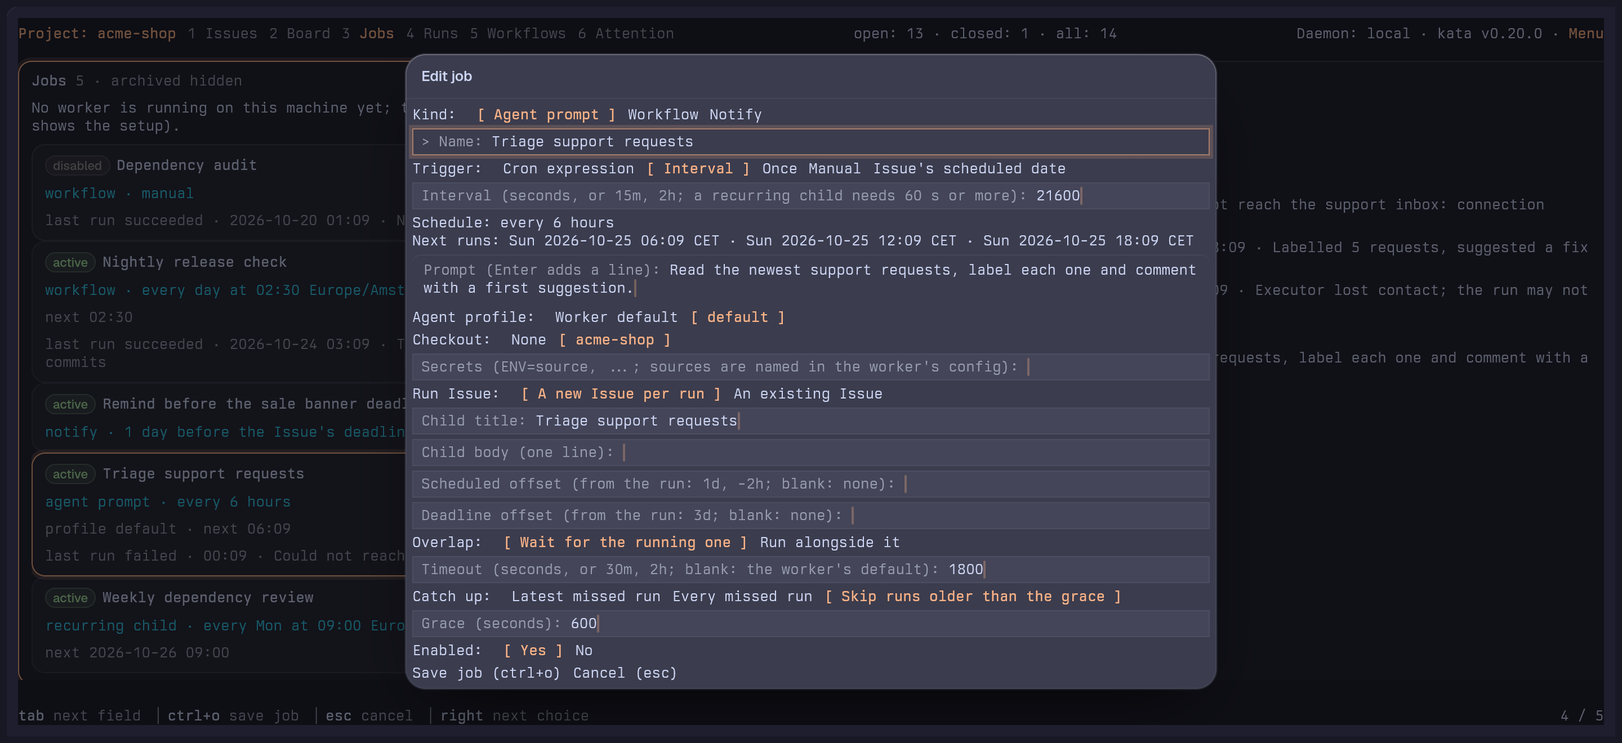
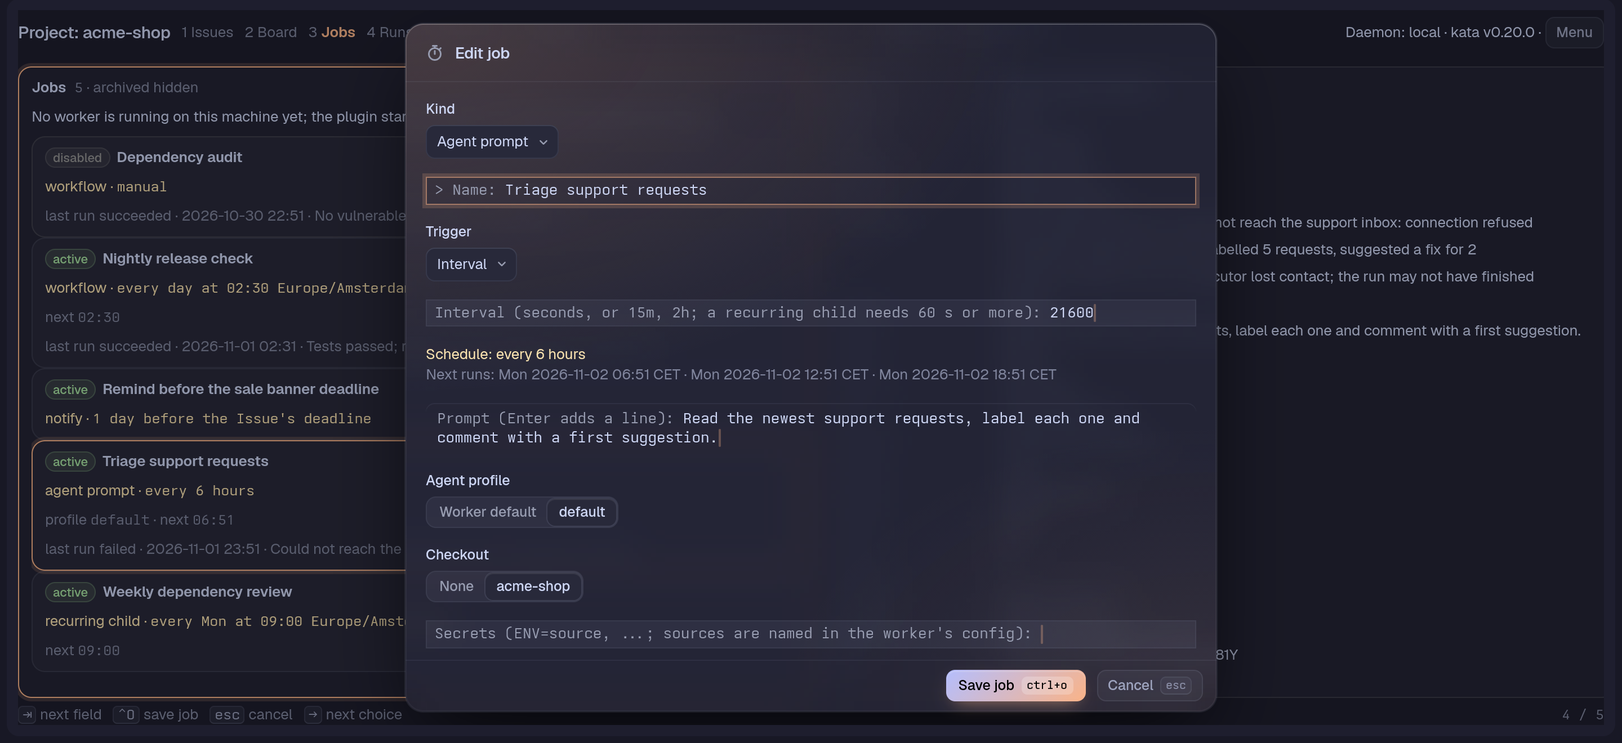
Docs for 0.7.0: screenshots in the new look, agents guide, changelog tidy
Re-capture every docs/images screenshot in dark-catppuccin against Tern 0.9.9 and
tern-sdk v0.2.0 (sans face, keycap buttons, chips), Pane-only framing, and add
agent-card.png, saved-views.png and saved-view-open.png to the agents and saved
views guides. Move the agents-on-Issue detail from README into docs/guide/agents.md,
document -NoProfile for Windows kata Panes, and merge the superseded Agent card,
help sheet and Tern 0.9.7 changelog entries.

Gates: the background agent smoke step expects --home now that a Pane with
KATA_HOME routes its agents to its daemon, and TestAgentHelper uses t.Setenv.

diff --git a/cmd/tern-kata/agent_test.go b/cmd/tern-kata/agent_test.go
@@ -23,7 +23,7 @@ func TestAgentHelper(t *testing.T) {
 	// The test binary's init resets some kata variables, so the block's own environment is applied here, last.
 	for _, kv := range strings.Split(os.Getenv(agentBlockEnv), "\n") {
 		if name, value, ok := strings.Cut(kv, "="); ok {
-			os.Setenv(name, value)
+			t.Setenv(name, value)
 		}
 	}
 	os.Args = append([]string{"tern-kata"}, os.Args[slices.Index(os.Args, "--")+1:]...)

diff --git a/CHANGELOG.md b/CHANGELOG.md
@@ -14,9 +14,8 @@ All notable changes to tern-kata are listed here. The format follows [Keep a Cha
 - The window plugin is installed from the release, next to the binary, not from the `main` branch on GitHub, and window machines get a plugin-only one-liner: `TERN_KATA_PLUGIN_ONLY=1` makes `install.sh` and `install.ps1` install just the plugin (no binary, `PATH` or skills step), fail when `tern` is not on `PATH`, and leave a linked copy as it is.
 - The worker reference explains how to back up and restore the worker's local state: what to copy, what to leave out, and what a restore on another machine means.
 - Saved views: a name for a base fixed Collection or Project with the Filter card's fields and a search text, kept in `views.toml` beside `filters.toml`. The Menu's Views level lists them by name after the fixed Collections and ends with **New view**, which opens the View card; opening one makes its base current with its filters applied (`@me` is the Pane's actor) and the filter line ends with "view <name>" while the Collection and filters are still the view's. `f2` edits the view under the cursor, `ctrl+d` deletes it after "Delete view <name>? y/n", and a view whose Project is gone or archived says so. `tern-kata views` lists the fixed Collections and saved views, `views show <name>` prints the Issues as the Pane groups them (`--json` for one object per group, `@me` from `--as`), and `views add <name>` and `views rm <name>` save and delete a view, all without Tern and with the View card's checks and messages. See [Pages and the Board](docs/guide/pages-and-board.md#saved-views) and [Views from a shell](docs/guide/views.md).
-- `w` on an Issue opens the Agent card, whose `s`, `t` and `g` start an interactive omp agent in a split right of the kata Pane, a new tab or the background, in the Issue's checkout; `agent.toml` sets the actor, command and agent name for every Project or one, and a closed Issue refuses `w` with a Notice. The agent runs through `tern-kata agent` (the `tern-kata` on the PATH of Tern's shell, so it must be this version) with its Issue as `KATA_REF`, so kata-plugin's todo plan hangs under that Issue, and without your `KATA_INBOX_USER`; it renews its claim when it already owns the Issue, finishes or drops its todo children before closing, and when it stops without closing it comments why, sets the Issue's **Work attention** to `needs-human` with its reason and labels it ready-for-human.
+- `w` on an Issue opens the **Agent card**, with or without agents: it lists them with state, start time and where each is, `enter` goes to one, `b` sends one to the background, and `s`, `t` and `g` start a new interactive omp agent in the Issue's checkout, in a split right of the kata Pane, a tab (right of the kata Pane's tab, in that Pane's Tern session, with the plugin's window half) or the background. `agent.toml` sets the actor, command and agent name for every Project or one, and a closed Issue refuses `w` with a Notice. The agent runs through `tern-kata agent` (the `tern-kata` on the PATH of Tern's shell, so it must be this version) with its Issue as `KATA_REF`, so kata-plugin's todo plan hangs under that Issue, and without your `KATA_INBOX_USER`; it renews its claim when it already owns the Issue, finishes or drops its todo children before closing, and when it stops without closing it comments why, sets the Issue's **Work attention** to `needs-human` with its reason and labels it ready-for-human.
 - The **Agent badge** on an Issue's list row, Lane row, Board card and detail shows "agent working", "agent waiting for you", "agent idle" or "agent exited", with " · N" when the Issue has several agents; on the Board card and in the detail a click focuses the agent.
-- `w` on an Issue opens the **Agent card**, with or without agents: it lists them with state, start time and where each is, `enter` goes to one, `b` sends one to the background, and `s`, `t` and `g` start a new agent in a split, a tab (right of the kata Pane's tab, in that Pane's Tern session, with the plugin's window half) or the background.
 - A **Background agent** opens beside the Pane when you click its Agent badge in any kata Pane or focus it in the hidden "kata agents" session, as Tern's notification for an agent waiting for you does, and the Pane that started it moves it back into the hidden "kata agents" session when it works again after waiting for you, wherever it was opened.
 - A **Background agent** ends once its Issue is closed and it is idle or has exited: the Pane that started it closes its block with `tern close` and drops its entry and prompt file, unless you have it open in any kata Pane; a close that fails shows Tern's words in a Notice and leaves the entry. An agent in a split or tab is closed this way only once a kata Pane has sent it to the background.
 - While an agent you started waits for you, the Issue holds an **Attention request** for your Inbox address with the agent's last message, also when the Pane finds the agent already waiting; it clears when no agent on the Issue waits and when the Pane quits, and a newer request someone else wrote stays. The request names the agent's `agent.toml` name (by default its program, such as `omp`) as its teammate, so the Attention Page shows `actor/<name>`; an Issue holds one request for you, so the agent that waited last is the one named. An agent that exits while its Issue is still open, also when you quit it with `/exit`, leaves the request "agent exited without closing <ref>" until the Issue closes, another agent on it waits or the Pane quits.
@@ -34,12 +33,11 @@ All notable changes to tern-kata are listed here. The format follows [Keep a Cha
 - A workflow's prompt step no longer inherits kata-plugin's steering variables (`KATA_REF`, `KATA_TEAMMATE`, `KATA_INBOX_USER` and the rest) from the worker's environment: of kata's variables it keeps only those that reach and sign in to the daemon.
 - New kata Panes on Windows no longer wait for the PowerShell profile: the kata Pane, Update tern-kata and Install tern-kata's Windows choice start PowerShell with `-NoProfile`, while your own shells and other Panes still load it.
 - The filter line under the top bar shows each active filter as a chip after a funnel ("status open", "owner me", a Relationship in the Filter card's words such as "relationship has parent"), and the muted note "default" or "view <name>" at its end, in place of the plain `status=open (default)` text.
-- The help sheet (`?`) shows each group of keys as a card, set in one to three equal-width columns as the Pane allows and balanced so the columns end close together; the keys are in an accent mono column that lines up down each column, a long action wraps inside its card, and the last line names both keys that close the sheet: "press ? or esc to return".
+- The help sheet (`?`) lists the global keys and the keys of the Page it is opened over, each group of keys as a card, set in one to three equal-width columns as the Pane allows and balanced so the columns end close together; the keys are in an accent mono column that lines up down each column, a long action wraps inside its card, the agent key `w` sits on one short line, and the last line names both keys that close the sheet: "press ? or esc to return".
 - A cron trigger whose expression names a `CRON_TZ=` or `TZ=` zone other than the trigger's `timezone` no longer runs in the expression's zone: the worker sets the job aside with "its cron expression names zone X but the trigger's timezone is Y", shown by `worker status`, `worker doctor` and the Job card.
 - A job can name its adapter in `options.adapter`: the Job card has an **Adapter** field and puts `tern-kata` on new adapter jobs, and the worker neither schedules nor runs a job that names another adapter, listing it in `worker status`, `worker doctor` and the Jobs Page with that reason; `worker upgrade` grants such a job no secrets or command steps. A job without the key runs as before.
-- The help sheet (`?`) lists the global keys and the keys of the Page it is opened over, and shows the agent key `w` on one short line.
 - The Menu's top level is short: the bound Project, **Views**, **Projects**, the Lettered Pages, Restore a deleted Issue and New Project. The fixed Collections (Inbox, Today, Upcoming, Deadlines, All Open, Logbook) moved into a **Views** level, which Back, `esc` or `backspace` leave for the top with the cursor on Views. The Views row names the current fixed Collection or saved view, typing still finds every Collection from the top, and an unbound directory's Menu sidebar shows the Views level.
-- **Open kata**, `F9` and kata links need Tern 0.9.7 or newer, which lets plugins split and find a remote host's Pane; they no longer fall back to a new tab when Tern can't split the focused Pane.
+- **Open kata**, `F9` and kata links no longer fall back to a new tab when Tern can't split the focused Pane: the Tern that tern-kata now needs lets plugins split and find a remote host's Pane.
 - `install.ps1` says that new Tern tabs and Panes see the `PATH` it changed at once; only shells already open and other programs already running need restarting.
 - The Issue detail's creation line no longer says "creation: legacy", which every Issue and comment on a Project without federation carries. A legacy Issue or comment shows "source: <actor> / <teammate>" only when it has a teammate or was created by someone other than its author, and no line otherwise; verified and pending lines are unchanged.
 - The Worker card lists its facts (Project, Checkout, `worker.toml`, Worker, Supervision) as an aligned grid, each value leading with its state in that state's colour, and names the checkouts `worker.toml` maps only when they differ from the Checkout row.

diff --git a/docs/guide/agents.md b/docs/guide/agents.md
@@ -1,6 +1,78 @@
 # Agents
 
-Two things help coding agents work with tern-kata: a rule that makes ticket references clickable, and two agent skills.
+Three things help coding agents work with tern-kata: the Agent card, which starts an agent on an Issue and keeps track of it (with the `agent.toml` that configures it, Background agents and Attention requests), a rule that makes ticket references clickable, and two agent skills.
+
+## Agents on an Issue
+
+### The Agent card and starting agents
+
+`w` on the selected Issue (list, Board, Lane view or Issue detail) opens the Agent card, with or without agents. It lists the Issue's agents with state, start time and where each is (split, tab, background or open). `enter` goes to the selected one, `b` sends it to the background, `esc` cancels.
+
+![The Agent card for "Add Apple Pay to checkout" with no agents yet and its buttons: New in a split (S), New in a tab (T), New in the background (G), plus Go to agent, Send to background and Cancel](../images/agent-card.png)
+
+`s` starts a new interactive `omp` in a split right of the kata Pane, `t` in a new tab right of the kata Pane's tab (in that Pane's Tern session, with the plugin's window half loaded; otherwise the tab opens last), `g` in the background. Each starts in the Issue's checkout: the Binding's workspace, else the Project's `checkout` in `agent.toml`, else the first checkout `worker.toml` lists for it, else a Notice says to add one.
+
+A closed Issue says "This Issue is closed; reopen it first (r)." and opens no card.
+
+The agent is told which Issue to work on and how to leave a record: claim it for 24 hours (renewing the claim when it already owns the Issue), comment what it did and how it checked, finish or drop its todo children before closing, close it with evidence only when done and verified, and ask you when it needs a decision. If it stops without closing, it comments why, sets `work.attention` to `needs-human` with the reason in `work.attention_msg`, and labels the Issue ready-for-human in place of ready-for-agent.
+
+### agent.toml
+
+`agent.toml` sets the actor, command and agent name, for every Project or for one. You write it by hand in tern-kata's config folder beside `lanes.toml`. It is read on every start.
+
+```toml
+actor = "me-agent"        # optional; without one the agent writes to kata as whoever kata resolves in its shell (KATA_AUTHOR as inherited)
+name = "builder"          # optional; the teammate its Attention requests carry, default the command's program name
+command = ["omp"]         # optional argv; the Pane appends @<prompt file>, so it must accept omp's @file message
+[projects.tern-kata]      # optional, by Project name; overrides the values above
+actor = "..."
+name = "..."
+command = ["omp", "--model", "opus"]
+checkout = "/home/me/Code/tern-kata"   # an absolute directory
+```
+
+An unknown key, a relative `checkout` or an empty `command` refuses the start and shows the error. The Pane remembers the agents it started in `agents.json` in its state folder and forgets the ones whose block has closed.
+
+### How the agent runs
+
+The agent always runs through `tern-kata agent [--as <actor>] --ref <qualified ref> --`. The wrapper:
+
+- sets `KATA_REF` to the Issue, so kata-plugin's todo plan hangs under it, and drops an inherited `KATA_REF` and `KATA_INBOX_USER` (your own inbox is not the agent's);
+- sets `KATA_AUTHOR` when there is an `actor`, and otherwise leaves `KATA_AUTHOR` as inherited.
+
+`tern-kata` must be on the `PATH` of Tern's shell on that machine, and must be this version: an older one refuses `--ref` and the agent exits at once.
+
+**The Pane's daemon.** A Pane on the default daemon starts agents as before. When the Pane's daemon is not what Tern's shell would pick (the Pane has `KATA_HOME` or `KATA_SERVER`, or you switched on the Daemons Page), the wrapper first drops the block's own `KATA_SERVER`, `KATA_AUTH_TOKEN`, `KATA_AUTH_TOKEN_FILE`, `KATA_ALLOW_INSECURE`, `KATA_TRUST_PRIVATE_NETWORK`, `KATA_DSN`, `KATA_DB` and `KATA_POSTGRES_SCHEMA`. It then sets `KATA_HOME` (made absolute), `KATA_SERVER`, `KATA_ALLOW_INSECURE`, `KATA_TRUST_PRIVATE_NETWORK`, `KATA_AUTH_TOKEN` and `KATA_AUTH_TOKEN_FILE` as the Pane has them. That is how the agent's `kata` commands reach the daemon `KATA_REF` names: its Issue is claimed, commented on and closed there, and kata-plugin registers nothing on Tern's default daemon.
+
+- The Pane's `KATA_DB`, `KATA_POSTGRES_SCHEMA` and `KATA_DSN` are carried only when the route keeps the Pane's home and is not a `KATA_SERVER` or switched-remote route.
+- The `token_env` values of `config.toml` are carried under their own names, never as one global token: every `[[daemon]]` and `[auth]` one for a home-only or plain local route, only `[auth]`'s for a `KATA_SERVER` route, none for a switched remote entry (it gets its own token) or a profile with its own home. Each reaches only the daemon kata scopes it to.
+- Tokens, a DSN (it may hold a password) and these values travel in private files beside the prompt file, deleted once read, never on the command line.
+- A remote daemon wins over the checkout's `.kata.local.toml` pin.
+- A switch to a local daemon that the checkout's pin or `active_daemon` would override, or to a remote entry without a token while `[auth]` in `config.toml` holds a credential, is refused with the reason in the "Cannot start an agent" Notice.
+
+### Agent badge
+
+The Agent badge on an Issue's list row, Lane row, Board card and detail shows "agent working", "agent waiting for you", "agent idle" or "agent exited", with " · N" when the Issue has several agents. On the Board card and in the detail, a click focuses the agent.
+
+### Background agents
+
+A Background agent's block goes in a tab of a hidden Tern session called "kata agents" (made when it does not exist), named after the Issue.
+
+- It opens beside the Pane when you click its Agent badge in any kata Pane, or focus it in the hidden session, as Tern's notification for an agent waiting for you does (with the plugin's window half loaded). Nothing else brings it out.
+- Once it is open and you answer it (it works again after waiting for you), the Pane that started it moves it back into the hidden session, wherever it was opened.
+- One you have not opened ends by itself once its Issue is closed and it is idle or has exited: the Pane that started it closes its block with `tern close` and drops its entry and prompt file, unless you have it open in any kata Pane. A close that fails shows Tern's words in a Notice and leaves the entry.
+- An agent that goes idle or exits while open stays open. An agent in a split or tab is closed this way only once a kata Pane has sent it to the background.
+- Sending an agent back records it as a Background agent even when a later move step fails, and the Notice still shows Tern's error.
+
+### Attention requests and Work attention
+
+While an agent you started waits for you, the Issue holds an Attention request for your Inbox address with the agent's last message, also when the Pane finds the agent already waiting. It clears when no agent on the Issue waits and when the Pane quits; a newer request someone else wrote stays.
+
+- For an omp agent, the message is the question of its pending ask call, else its last message. An omp agent with no text to show gets "agent waiting for you". An agent that is not omp keeps its last message.
+- The request names the agent's `agent.toml` name (by default its program, such as `omp`) as its teammate, so the [Attention Page](pages-and-board.md#attention-page) shows `actor/<name>`. An Issue holds one request for you, so the agent that waited last is the one named.
+- An agent that exits while its Issue is still open, also when you quit it with `/exit`, leaves the request "agent exited without closing <ref>" until the Issue closes, another agent on it waits or the Pane quits.
+
+Work attention is the Issue's own `work.attention`. An open Issue whose `work.attention` is `needs-human` or `stuck`, written by an agent, kata-plugin or anyone else, shows `needs human` or `stuck` beside the Agent badge on list and Lane rows and as a badge on the Board card, and the word with its whole message as the Work attention property of the Issue detail. `ok`, no value and an unknown value show nothing.
 
 ## Clickable ticket links from agents
 

diff --git a/README.md b/README.md
@@ -52,26 +52,13 @@ In tern-kata, Issue bodies render as Markdown, priorities and labels show as chi
 
 **Dates card.** `d` sets an Issue's scheduled date and deadline, typed as a date, `today`, `tomorrow`, `+3d` or `+1w`. See [Dates](docs/guide/dates.md).
 
-![The Dates card over the Board, with "+1w" resolving to 2026-11-01](docs/images/dates-card.png)
+![The Dates card over the Board, with "+1w" typed in Scheduled and the date it resolves to below it](docs/images/dates-card.png)
 
 **Moving an Issue.** `M` opens the Move card on the selected Issue: pick a Project from a filtered list, preview the move (kata checks it and changes nothing), then move it, guarded on the revision the card opened with. A Notice links to the Issue in its new Project. See [Moving an Issue](docs/guide/pages-and-board.md#moving-an-issue).
 
 **Deleting and restoring an Issue.** `X` opens the Delete card on the selected Issue: type its `project#id` to confirm, add a reason if you like, and kata deletes it (soft: it keeps the Issue and its history). `u` right after restores it, and the Menu's "Restore a deleted Issue" brings back an earlier one by short id, `project#id` or ULID. See [Deleting and restoring an Issue](docs/guide/pages-and-board.md#deleting-and-restoring-an-issue).
 
-**Agents on an Issue.** `w` on the selected Issue (list, Board, Lane view or Issue detail) opens the Agent card. It lists the Issue's agents with state, start time and where each is (split, tab, background or open); `enter` goes to the selected one, `b` sends it to the background, `esc` cancels. `s` starts a new interactive `omp` in a split right of the kata Pane, `t` in a new tab right of the kata Pane's tab (with the plugin's window half loaded; otherwise the tab opens last), `g` in the background, each in the Issue's checkout: the Binding's workspace, else the Project's `checkout` in `agent.toml`, else the first checkout `worker.toml` lists for it, else a Notice says to add one. The agent is told which Issue to work on and how to leave a record (claim it for 24 hours, comment what it did and how it checked, close it with evidence only when done and verified, ask you when it needs a decision, and if it stops without closing, comment why, set `work.attention` to `needs-human` with the reason in `work.attention_msg`, and label the Issue ready-for-human in place of ready-for-agent). An open Issue whose `work.attention` is `needs-human` or `stuck` shows its word (`needs human` or `stuck`) on its list, Lane and Board rows and the word with its whole message as the Work attention property of the Issue detail, whoever wrote it; `ok`, no value and an unknown value show nothing. A closed Issue says "This Issue is closed; reopen it first (r)." and opens no card. A background agent's block goes in a tab of a hidden Tern session called "kata agents" (made when it does not exist), named after the Issue. A click on its **Agent badge** opens it beside the Pane, and so does focusing it in the hidden session, as Tern's notification for an agent waiting for you does (with the plugin's window half loaded); nothing else brings it out. Once it is open and you answer it (it works again after waiting for you) the Pane moves it back into the hidden session. A background agent you have not opened ends by itself once its Issue is closed and it is idle or has exited: the Pane that started it closes its block with `tern close`, and a close that fails shows Tern's words in a Notice. An agent that goes idle or exits while open stays open. `agent.toml`, which you write by hand in tern-kata's config folder beside `lanes.toml` and which is read on every start, sets the actor and command, for every Project or for one:
-
-```toml
-actor = "me-agent"        # optional; without one the agent writes to kata as whoever kata resolves in its shell (KATA_AUTHOR as inherited)
-name = "builder"          # optional; the teammate its Attention requests carry, default the command's program name
-command = ["omp"]         # optional argv; the Pane appends @<prompt file>, so it must accept omp's @file message
-[projects.tern-kata]      # optional, by Project name; overrides the values above
-actor = "..."
-name = "..."
-command = ["omp", "--model", "opus"]
-checkout = "/home/me/Code/tern-kata"   # an absolute directory
-```
-
-The agent always runs through `tern-kata agent [--as <actor>] --ref <qualified ref> --`, which sets `KATA_REF` (the Issue, so kata-plugin's todo plan hangs under it) and drops an inherited `KATA_REF` and `KATA_INBOX_USER` (your own inbox is not the agent's); with an `actor` it also sets `KATA_AUTHOR`, without one it leaves `KATA_AUTHOR` as inherited; when the Pane's daemon is not what Tern's shell would pick (the Pane has `KATA_HOME` or `KATA_SERVER`, or you switched on the Daemons Page) the wrapper first drops the block's own `KATA_SERVER`, `KATA_AUTH_TOKEN`, `KATA_AUTH_TOKEN_FILE`, `KATA_ALLOW_INSECURE`, `KATA_TRUST_PRIVATE_NETWORK`, `KATA_DSN`, `KATA_DB` and `KATA_POSTGRES_SCHEMA`, then sets `KATA_HOME` (made absolute), `KATA_SERVER`, `KATA_ALLOW_INSECURE`, `KATA_TRUST_PRIVATE_NETWORK`, `KATA_AUTH_TOKEN` and `KATA_AUTH_TOKEN_FILE` as the Pane has them, which is how the agent's `kata` commands reach the daemon `KATA_REF` names. The Pane's `KATA_DB`, `KATA_POSTGRES_SCHEMA` and `KATA_DSN` are carried only when the route keeps the Pane's home and is not a `KATA_SERVER` or switched-remote route. The `token_env` values of `config.toml` are carried under their own names (never as one global token): every `[[daemon]]` and `[auth]` one for a home-only or plain local route, only `[auth]`'s for a `KATA_SERVER` route, none for a switched remote entry (it gets its own token) or a profile with its own home. Tokens, a DSN (it may hold a password) and these values travel in private files beside the prompt file, deleted once read, never on the command line; a remote daemon wins over the checkout's `.kata.local.toml` pin, and a switch to a local daemon the checkout's pin or `active_daemon` would override, or to a remote entry without a token while `[auth]` in `config.toml` holds a credential, is refused, in the Notice, with the reason; `tern-kata` must be on the `PATH` of Tern's shell on that machine, and must be this version: an older one refuses `--ref` and the agent exits at once. An unknown key, a relative `checkout` or an empty `command` refuses the start and shows the error. The Pane remembers the agents it started in `agents.json` in its state folder and forgets the ones whose block has closed.
+**Agents on an Issue.** `w` on the selected Issue opens the Agent card: it lists the Issue's agents, and `s`, `t` and `g` start an interactive `omp` agent in a split, a tab or the background, in the Issue's checkout. The **Agent badge** on an Issue's rows, cards and detail shows whether its agent is working, waiting for you, idle or exited. See [Agents](docs/guide/agents.md#agents-on-an-issue).
 
 **kata links.** Links from agents' chat replies open the Issue in tern-kata. See [Agents](docs/guide/agents.md).
 
@@ -120,6 +107,8 @@ Agents: follow these steps only when the user has asked you to install tern-kata
    ```
 
    They install the latest release to `~/.local/bin` (`%LOCALAPPDATA%\Programs\tern-kata` on Windows, added to your user `PATH`), verify its checksum, and also install the window plugin from the same release when `tern` is on `PATH` (a plugin you linked with `tern plugin link` is left as it is). Run in a terminal with `npx` (or `bunx`) available, they then offer to install the [agent skills](docs/guide/agents.md#agent-skills). Once the plugin is installed, the **Install tern-kata** palette command runs the same one-liner in a new Pane. `tern-kata --help` lists every subcommand and flag, and `tern-kata completion bash|zsh|fish` prints a completion script (`source <(tern-kata completion bash)`, or `tern-kata completion fish | source`).
+
+   On Windows, the kata Pane, **Update tern-kata** and the palette's **Install tern-kata** Windows choice start PowerShell with `-NoProfile`, so a new kata Pane does not wait for your PowerShell profile. Your own shells and other Panes still load it.
 
    Alternatively, with Go 1.27+:
 

diff --git a/docs/guide/pages-and-board.md b/docs/guide/pages-and-board.md
@@ -88,8 +88,13 @@ The Issues Page is the list and the Issue detail.
 
 A saved view is a base Collection (a fixed one or a Project) with the Filter card's fields and a search text, saved under a name. They live in `views.toml` in tern-kata's config folder beside `filters.toml`, on this machine for every Project, and [`tern-kata views`](views.md) works on the same file.
 
+![The Menu's Views level listing the fixed Collections, three saved views and New view](../images/saved-views.png)
+
 - **New view**, the last row of the Menu's Views level, opens the View card: **Name** (required, at most 64 characters, unique ignoring case, and not a fixed Collection's title or key), **Base** (a fixed Collection or a Project, prefilled with the current Collection), the Filter card's fields and **Search**, prefilled with the current filters. `tab` and `shift+tab` move between fields, `←`/`→` change a choice, `ctrl+o` or `ctrl+s` saves and opens the new view, `esc` cancels. A refusal names the field and keeps what you typed; so does a `views.toml` that changed since the Pane read it.
 - Saved views are listed by name after the fixed Collections. Opening one makes its base current with its filters applied, and the filter line under the top bar ends with "view <name>" while the filters equal it. `c` clears the filters for this Pane only. An owner of `@me` means this Pane's actor when the view opens.
+
+  ![The Payments open saved view: filter chips for status open and label payments, "view Payments open", and the Issues it matches](../images/saved-view-open.png)
+
 - On a saved view's row `f2` edits it in the View card (a rename keeps its place in the file) and `ctrl+d` asks "Delete view <name>? y/n"; both are in the footer and on the help sheet (`?`). Letters and `ctrl+a`/`ctrl+e` stay with the Menu's filter box.
 - A view whose base Project is gone or archived stays listed with "(Project gone)" or "(archived)"; opening it says so and changes nothing.
 - The Pane reads `views.toml` when it starts and each time the Menu opens, so a view saved by another Pane or by `tern-kata views add` appears without a restart. A file that cannot be read is reported and left untouched, and the fixed Collections still work.

diff --git a/docs/guide/README.md b/docs/guide/README.md
@@ -14,7 +14,7 @@ Back to the [overview](../../README.md).
 | [Recurring Issues](recur.md) | The Recurrence card and `tern-kata recur` |
 | [Views from a shell](views.md) | `tern-kata views`: list, show, add and remove saved views |
 | [Dates](dates.md) | The Dates card |
-| [Agents](agents.md) | Clickable ticket links and the agent skills |
+| [Agents](agents.md) | The Agent card, `agent.toml`, Background agents, Attention requests, clickable ticket links and the agent skills |
 | [Compared with `kata tui`](kata-tui.md) | Shared keys, undo, quit, aliases and the keys kata tui lacks |
 | [FAQ](faq.md) | Common questions |
 | [Development](development.md) | Building, testing, releasing, type-checking |

diff --git a/docs/guide/dates.md b/docs/guide/dates.md
@@ -2,7 +2,7 @@
 
 `d` on the selected Issue (in the list, on the Board, in the Lane view and in the Issue detail) opens the **Dates card**: a Scheduled field and a Deadline field holding the Issue's current dates.
 
-![The Dates card over the Board, with "+1w" resolving to 2026-11-01](../images/dates-card.png)
+![The Dates card over the Board, with "+1w" typed in Scheduled and the date it resolves to below it](../images/dates-card.png)
 
 `tab` moves between the fields, `enter` saves and `esc` cancels. `ctrl+d` in a field opens a calendar beside it: the arrow keys move by a day or a week, `enter` or a click picks the date and `esc` closes the calendar. Typing a date works as before. A field takes:
 
